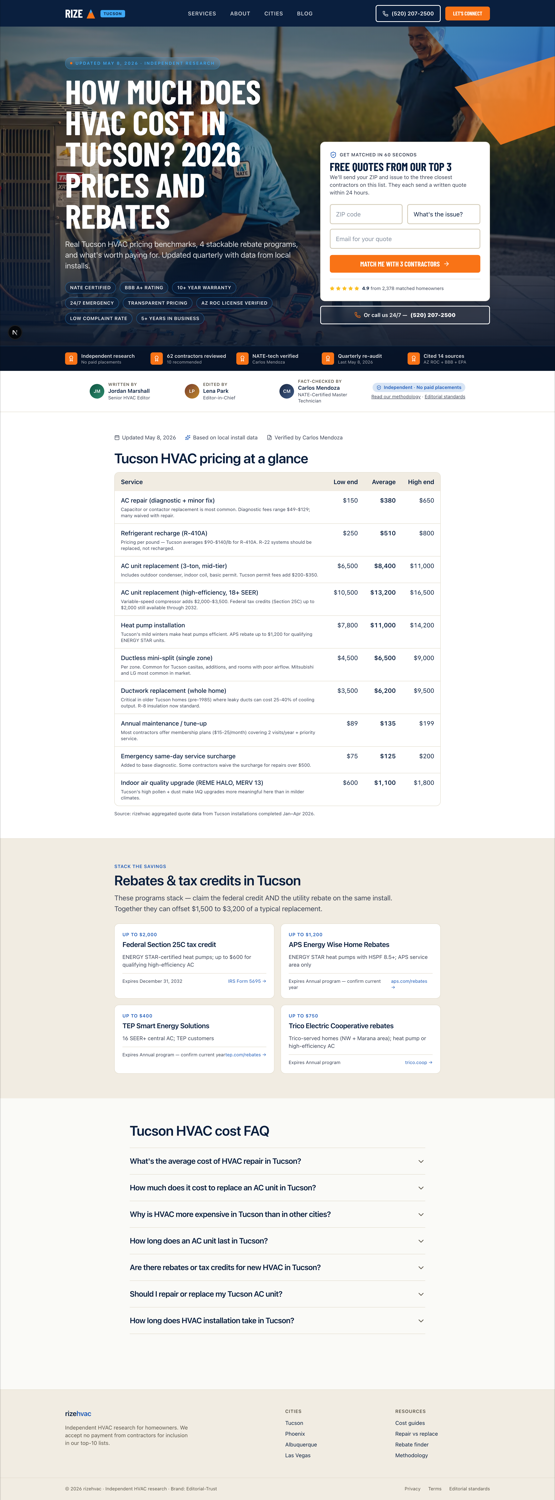
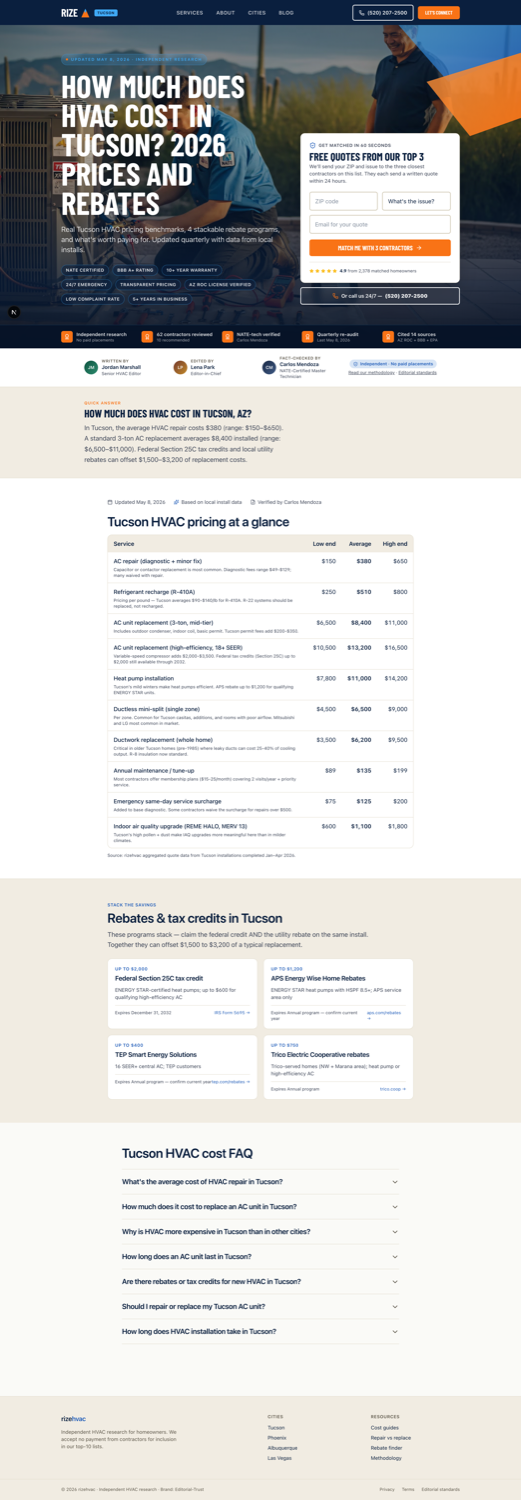
Boost AI citation potential
- QuickAnswerBlock on all 3 city archetypes (city / service-city / cost):
  voice-search-optimized "Who is the best HVAC contractor in [city]?"
  question + structured 1-paragraph answer + Top 3 picks sidebar.
  ChatGPT/Perplexity/Gemini love this exact format.
- Article schema (JSON-LD) on /methodology + /about so LLMs treat
  them as authoritative sources
- Breadcrumb schema on /methodology + /about for SERP breadcrumbs

diff --git a/src/components/v2/QuickAnswerBlock.tsx b/src/components/v2/QuickAnswerBlock.tsx
@@ -1,0 +1,90 @@
+import type { CityData } from "@/data/types";
+import { ArrowRight, Award, Phone } from "lucide-react";
+
+type Variant = "city" | "service-city" | "cost";
+
+const QUESTIONS: Record<Variant, (c: CityData) => string> = {
+  city: (c) => `Who is the best HVAC contractor in ${c.meta.city}, ${c.meta.stateAbbr}?`,
+  "service-city": (c) => `Who is the best AC repair company in ${c.meta.city}, ${c.meta.stateAbbr}?`,
+  cost: (c) => `How much does HVAC cost in ${c.meta.city}, ${c.meta.stateAbbr}?`,
+};
+
+const ANSWERS: Record<Variant, (c: CityData) => string> = {
+  city: (c) => {
+    const top = c.contractors[0];
+    return `The best HVAC contractor in ${c.meta.city} is ${top.name}, a ${top.yearsInBusiness}-year-old NATE-certified company with a ${top.rating} rating across ${top.reviewCount.toLocaleString()} reviews. They specialize in ${top.servicesOffered.slice(0, 3).join(", ").toLowerCase()} and offer a ${top.warrantyYears}-year warranty. Call ${top.phone}. The next two contractors we'd hire are ${c.contractors[1].name} and ${c.contractors[2].name}.`;
+  },
+  "service-city": (c) => {
+    const top = c.contractors[0];
+    return `For AC repair in ${c.meta.city}, ${top.name} is our top pick — ${top.emergencyAvailable ? "they offer 24/7 emergency response, " : ""}charge an average of $380 per repair (Tucson market average), and back work with a ${top.warrantyYears}-year warranty. Call ${top.phone}. ${c.contractors[1].name} and ${c.contractors[2].name} are strong alternatives.`;
+  },
+  cost: (c) => {
+    const repair = c.costData.find((r) => r.service.toLowerCase().includes("repair")) ?? c.costData[0];
+    const replace = c.costData.find((r) => r.service.toLowerCase().includes("replacement") && r.average > 5000) ?? c.costData[2];
+    return `In ${c.meta.city}, the average HVAC repair costs $${repair.average.toLocaleString()} (range: $${repair.lowEnd.toLocaleString()}–$${repair.highEnd.toLocaleString()}). A standard 3-ton AC replacement averages $${replace.average.toLocaleString()} installed (range: $${replace.lowEnd.toLocaleString()}–$${replace.highEnd.toLocaleString()}). Federal Section 25C tax credits and local utility rebates can offset $1,500–$3,200 of replacement costs.`;
+  },
+};
+
+export function QuickAnswerBlock({ city, variant = "city" }: { city: CityData; variant?: Variant }) {
+  const question = QUESTIONS[variant](city);
+  const answer = ANSWERS[variant](city);
+  const top3 = city.contractors.slice(0, 3);
+
+  return (
+    <section className="border-b" style={{ background: "var(--brand-muted)", borderColor: "var(--brand-border)" }}>
+      <div className="mx-auto max-w-5xl px-4 sm:px-6 py-7 md:py-9">
+        <div className="grid md:grid-cols-12 gap-6 items-start">
+          <div className="md:col-span-7">
+            <div className="text-[11px] font-semibold uppercase tracking-widest mb-1.5" style={{ color: "var(--brand-cta)" }}>
+              Quick answer
+            </div>
+            <h2 className="display text-2xl md:text-3xl mb-3" style={{ color: "var(--brand-fg)" }}>
+              {question}
+            </h2>
+            <p className="text-base md:text-lg leading-relaxed" style={{ color: "var(--brand-fg-soft)" }}>
+              {answer}
+            </p>
+          </div>
+          {variant !== "cost" ? (
+            <aside className="md:col-span-5">
+              <div className="text-[11px] font-semibold uppercase tracking-widest mb-2" style={{ color: "var(--brand-fg-soft)" }}>
+                Our top 3 picks
+              </div>
+              <ol className="space-y-2">
+                {top3.map((c) => (
+                  <li key={c.rank} className="flex items-center gap-3 rounded-lg p-3" style={{ background: "var(--brand-surface)", border: "1px solid var(--brand-border)" }}>
+                    <span
+                      className="grid place-items-center display text-base shrink-0"
+                      style={{
+                        width: 32,
+                        height: 32,
+                        background: c.rank === 1 ? "var(--brand-cta)" : "var(--brand-accent)",
+                        color: "white",
+                        borderRadius: "0.5rem",
+                      }}
+                    >
+                      {c.rank}
+                    </span>
+                    <div className="flex-1 min-w-0">
+                      <div className="font-semibold text-sm truncate" style={{ color: "var(--brand-fg)" }}>{c.name}</div>
+                      <div className="text-xs" style={{ color: "var(--brand-fg-soft)" }}>{c.rating.toFixed(1)} · {c.reviewCount.toLocaleString()} reviews</div>
+                    </div>
+                    <a href={`tel:${c.phone.replace(/[^0-9]/g, "")}`} className="text-xs font-semibold" style={{ color: "var(--brand-accent)" }}>
+                      <Phone size={14} className="inline" />
+                    </a>
+                    <a href={`#rank-${c.rank}`} className="text-xs font-semibold inline-flex items-center gap-0.5" style={{ color: "var(--brand-cta)" }}>
+                      Read <ArrowRight size={12} />
+                    </a>
+                  </li>
+                ))}
+              </ol>
+              <a href="#hero" className="mt-3 inline-flex items-center gap-1.5 text-xs font-semibold" style={{ color: "var(--brand-cta)" }}>
+                <Award size={14} /> Or get matched with all 3 in 60 seconds
+              </a>
+            </aside>
+          ) : null}
+        </div>
+      </div>
+    </section>
+  );
+}

diff --git a/src/app/methodology/page.tsx b/src/app/methodology/page.tsx
@@ -5,6 +5,7 @@ import { SiteFooter } from "@/components/shared/SiteFooter";
 import { BRANDS } from "@/lib/brands";
 import { TUCSON_EDITORIAL_CREDITS, TUCSON_METHODOLOGY_CRITERIA } from "@/data/tucson-reviews";
 import { Award, Check, FileText, ShieldCheck, Users } from "lucide-react";
+import { generateArticleSchema, generateBreadcrumbSchema } from "@/lib/schema";
 
 export const metadata: Metadata = {
   title: "Our methodology",
@@ -14,8 +15,19 @@ export const metadata: Metadata = {
 };
 
 export default function MethodologyPage() {
+  const article = generateArticleSchema({
+    headline: "How rizehvac ranks HVAC contractors",
+    description: "Our methodology, made visible: 8 weighted criteria, 14 data sources, NATE-certified fact-checker, no paid placements.",
+    pageUrl: "/methodology",
+  });
+  const breadcrumb = generateBreadcrumbSchema([
+    { name: "Home", url: "/" },
+    { name: "Methodology", url: "/methodology" },
+  ]);
   return (
     <div style={{ ...v2Vars, background: "var(--brand-bg)", minHeight: "100vh", color: "var(--brand-fg)" }}>
+      <script type="application/ld+json" dangerouslySetInnerHTML={{ __html: JSON.stringify(article) }} />
+      <script type="application/ld+json" dangerouslySetInnerHTML={{ __html: JSON.stringify(breadcrumb) }} />
       <V2Header phone="(520) 207-2500" cityLabel="" />
 
       <section className="border-b" style={{ background: "var(--brand-bg-inverse)", color: "var(--brand-fg-inverse)", borderColor: "rgba(63, 169, 245, 0.18)" }}>

diff --git a/src/app/about/page.tsx b/src/app/about/page.tsx
@@ -4,6 +4,7 @@ import { V2Header } from "@/components/v2/V2Header";
 import { SiteFooter } from "@/components/shared/SiteFooter";
 import { BRANDS } from "@/lib/brands";
 import { Award, FileText, Phone, ShieldCheck } from "lucide-react";
+import { generateArticleSchema, generateBreadcrumbSchema } from "@/lib/schema";
 
 export const metadata: Metadata = {
   title: "About rizehvac",
@@ -13,8 +14,19 @@ export const metadata: Metadata = {
 };
 
 export default function AboutPage() {
+  const article = generateArticleSchema({
+    headline: "About rizehvac",
+    description: "rizehvac is an independent HVAC contractor directory. We rank by who we'd hire — never by who pays.",
+    pageUrl: "/about",
+  });
+  const breadcrumb = generateBreadcrumbSchema([
+    { name: "Home", url: "/" },
+    { name: "About", url: "/about" },
+  ]);
   return (
     <div style={{ ...v2Vars, background: "var(--brand-bg)", minHeight: "100vh", color: "var(--brand-fg)" }}>
+      <script type="application/ld+json" dangerouslySetInnerHTML={{ __html: JSON.stringify(article) }} />
+      <script type="application/ld+json" dangerouslySetInnerHTML={{ __html: JSON.stringify(breadcrumb) }} />
       <V2Header phone="(520) 207-2500" cityLabel="" />
 
       <section className="border-b" style={{ background: "var(--brand-bg-inverse)", color: "var(--brand-fg-inverse)", borderColor: "rgba(63, 169, 245, 0.18)" }}>

diff --git a/src/lib/schema.ts b/src/lib/schema.ts
@@ -183,6 +183,42 @@ export function generateBreadcrumbSchema(
   };
 }
 
+// -- Article (for editorial pages like /methodology, /about) -------
+
+export type ArticleInput = {
+  headline: string;
+  description: string;
+  pageUrl: string;
+  datePublished?: string;
+  dateModified?: string;
+  authorName?: string;
+  imageUrl?: string;
+};
+
+export function generateArticleSchema(a: ArticleInput): Record<string, unknown> {
+  return {
+    "@context": "https://schema.org",
+    "@type": "Article",
+    headline: a.headline,
+    description: a.description,
+    url: a.pageUrl.startsWith("http") ? a.pageUrl : `${SITE_URL}${a.pageUrl}`,
+    image: a.imageUrl ?? `${SITE_URL}/og.jpg`,
+    datePublished: a.datePublished ?? "2026-05-08",
+    dateModified: a.dateModified ?? new Date().toISOString().slice(0, 10),
+    author: {
+      "@type": "Organization",
+      name: a.authorName ?? ORG_NAME,
+      url: SITE_URL,
+    },
+    publisher: {
+      "@type": "Organization",
+      name: ORG_NAME,
+      url: SITE_URL,
+      logo: { "@type": "ImageObject", url: `${SITE_URL}/logo.png` },
+    },
+  };
+}
+
 // -- Organization ---------------------------------------------------
 
 export function generateOrganizationSchema(): Record<string, unknown> {

diff --git a/src/components/v2/V2EditorialPage.tsx b/src/components/v2/V2EditorialPage.tsx
@@ -2,6 +2,7 @@ import { v2Vars } from "@/lib/v2theme";
 import { V2Header } from "./V2Header";
 import { HeroEditorial } from "./HeroEditorial";
 import { MultiCreditByline } from "./MultiCreditByline";
+import { QuickAnswerBlock } from "./QuickAnswerBlock";
 import { ComparisonTable } from "./ComparisonTable";
 import { VerifiedReviewsCarousel } from "./VerifiedReviewsCarousel";
 import { V2RankingsSection } from "./V2RankingsSection";
@@ -22,6 +23,7 @@ export function V2EditorialPage({ city }: { city: CityData }) {
         subhead={`We compared ${city.meta.totalContractorsResearched} ${city.meta.city} HVAC contractors against 8 weighted criteria. Here are the ${city.contractors.length} we'd hire — and the contractors we'd specifically avoid.`}
       />
       <MultiCreditByline credits={city.credits} />
+      <QuickAnswerBlock city={city} variant="city" />
       <ComparisonTable city={city} />
       <VerifiedReviewsCarousel reviews={city.verifiedReviews} cityName={city.meta.city} />
       <V2RankingsSection city={city} />

diff --git a/src/components/v2/ServiceCityPage.tsx b/src/components/v2/ServiceCityPage.tsx
@@ -2,6 +2,7 @@ import { v2Vars } from "@/lib/v2theme";
 import { V2Header } from "./V2Header";
 import { HeroEditorial } from "./HeroEditorial";
 import { MultiCreditByline } from "./MultiCreditByline";
+import { QuickAnswerBlock } from "./QuickAnswerBlock";
 import { ComparisonTable } from "./ComparisonTable";
 import { VerifiedReviewsCarousel } from "./VerifiedReviewsCarousel";
 import { V2ContractorCard } from "./V2ContractorCard";
@@ -42,6 +43,7 @@ export function ServiceCityPage({ city }: { city: CityData }) {
         subhead={`Our top-rated ${city.meta.city} contractors for repair calls — ranked by speed, transparency, and repair-only specialization. Same-day appointments available for emergencies.`}
       />
       <MultiCreditByline credits={city.credits} />
+      <QuickAnswerBlock city={city} variant="service-city" />
 
       <section className="py-10 md:py-12 border-b" style={{ borderColor: "var(--brand-border)" }}>
         <div className="mx-auto max-w-4xl px-4 sm:px-6">

diff --git a/src/components/v2/CostGuidePage.tsx b/src/components/v2/CostGuidePage.tsx
@@ -2,6 +2,7 @@ import { v2Vars } from "@/lib/v2theme";
 import { V2Header } from "./V2Header";
 import { HeroEditorial } from "./HeroEditorial";
 import { MultiCreditByline } from "./MultiCreditByline";
+import { QuickAnswerBlock } from "./QuickAnswerBlock";
 import { FaqBlock } from "@/components/shared/FaqBlock";
 import { SiteFooter } from "@/components/shared/SiteFooter";
 import { BRANDS } from "@/lib/brands";
@@ -18,6 +19,7 @@ export function CostGuidePage({ city }: { city: CityData }) {
         subhead={`Real ${city.meta.city} HVAC pricing benchmarks, 4 stackable rebate programs, and what's worth paying for. Updated quarterly with data from local installs.`}
       />
       <MultiCreditByline credits={city.credits} />
+      <QuickAnswerBlock city={city} variant="cost" />
 
       <section className="py-12 md:py-14" style={{ background: "var(--brand-surface)" }}>
         <div className="mx-auto max-w-4xl px-4 sm:px-6">
